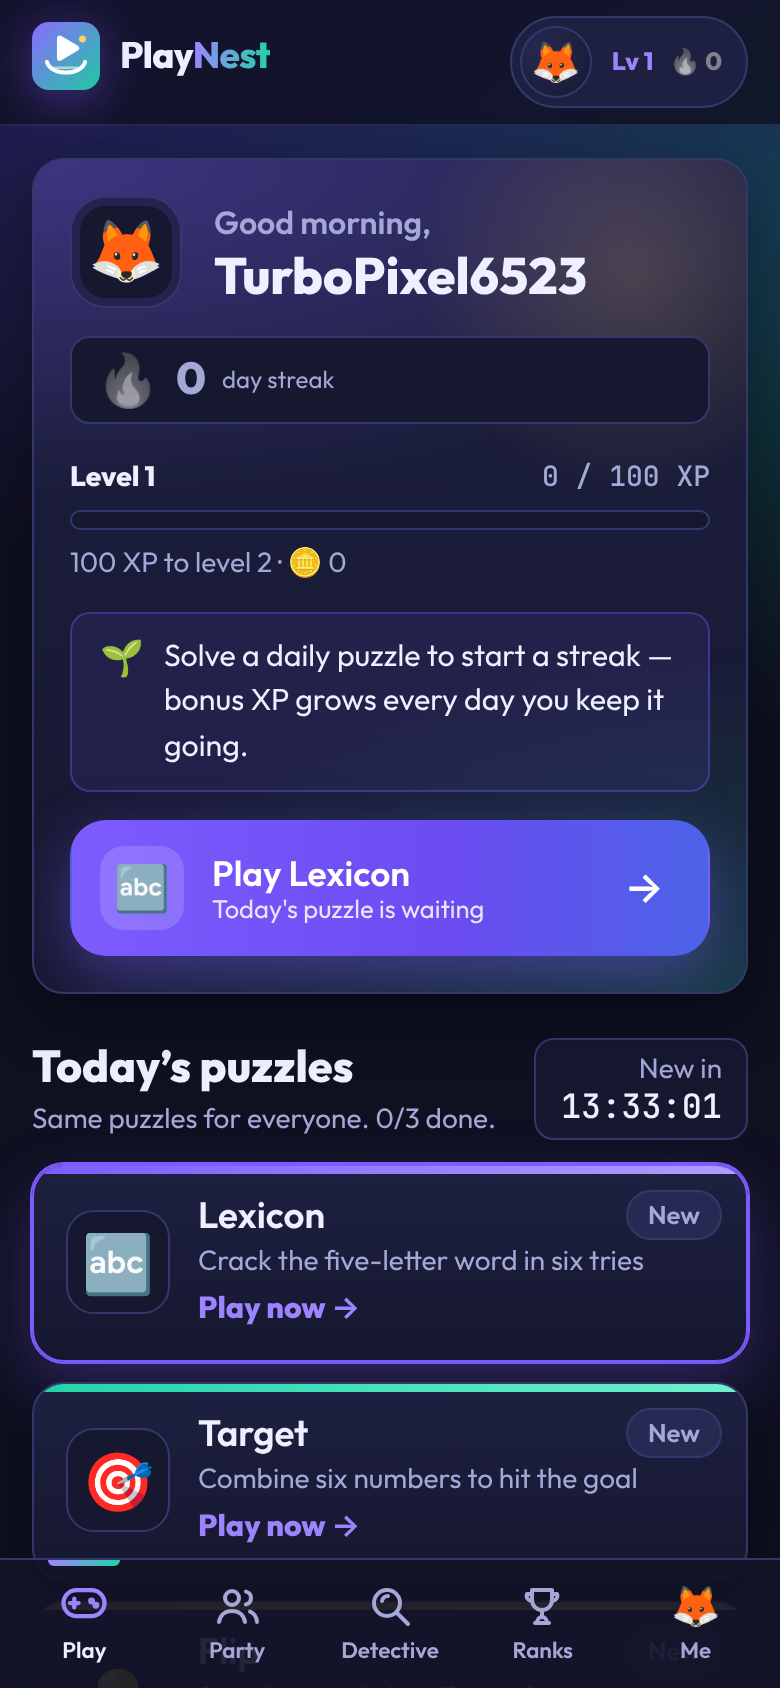
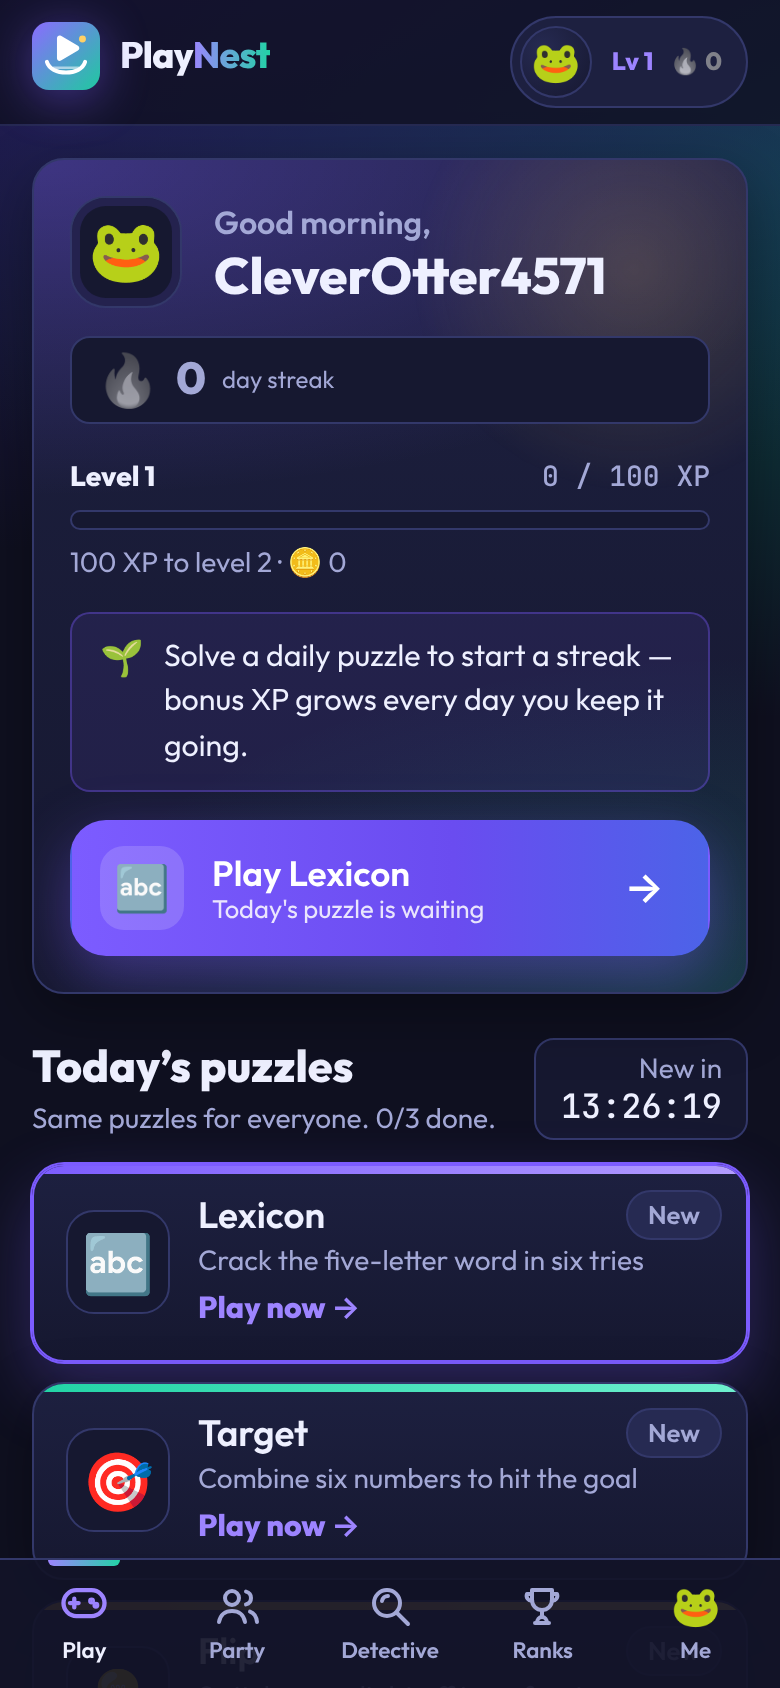
WIP: feature work in progress (daily puzzles, party, detective, core UX)

diff --git a/client/src/components/Toasts.jsx b/client/src/components/Toasts.jsx
@@ -4,25 +4,41 @@ import { IconClose } from './Icons.jsx';
 
 const EXIT_MS = 260;
 const MAX_VISIBLE = 4;
+const MAX_VISIBLE_PHONE = 2; // matches the 760px breakpoint in Layout.css
+const phoneQuery = '(max-width: 760px)';
 const KINDS = new Set(['xp', 'streak', 'level', 'achievement', 'error', 'success', 'info']);
+
+// Oldest first: a burst (XP, streak, achievements) queues behind the cap instead of
+// pushing the first and most important toast (+XP) off screen before it is seen.
+function visible(items, max) {
+  let shown = 0;
+  return items.filter((t) => t.leaving || shown++ < max);
+}
+
+function useIsPhone() {
+  const query = () => (typeof window !== 'undefined' && window.matchMedia ? window.matchMedia(phoneQuery) : null);
+  const [phone, setPhone] = useState(() => !!query()?.matches);
+  useEffect(() => {
+    const mq = query();
+    if (!mq) return undefined;
+    const on = () => setPhone(mq.matches);
+    mq.addEventListener?.('change', on);
+    return () => mq.removeEventListener?.('change', on);
+  }, []);
+  return phone;
+}
 
 /**
  * Animated toast stack rendered from useSession().toasts.
  * Toasts that leave the session list are kept briefly with an exit animation.
  * Top-right on desktop, top-center on mobile (see Layout.css).
  */
-// Oldest first: a burst (XP, streak, achievements) queues behind the cap instead of
-// pushing the first and most important toast (+XP) off screen before it is seen.
-function visible(items) {
-  let shown = 0;
-  return items.filter((t) => t.leaving || shown++ < MAX_VISIBLE);
-}
-
 export default function Toasts() {
   const { toasts = [] } = useSession() || {};
   const [items, setItems] = useState([]); // [{...toast, leaving}]
   const [dismissed, setDismissed] = useState(() => new Set());
   const timers = useRef(new Map());
+  const phone = useIsPhone();
 
   useEffect(() => {
     const live = new Set(toasts.filter((t) => !dismissed.has(t.id)).map((t) => t.id));
@@ -61,7 +77,7 @@ export default function Toasts() {
   return (
     <div className="pn-toasts" role="region" aria-label="Notifications">
       <div aria-live="polite" aria-atomic="false" className="pn-toasts-inner">
-        {visible(items).map((t) => {
+        {visible(items, phone ? MAX_VISIBLE_PHONE : MAX_VISIBLE).map((t) => {
           const kind = KINDS.has(t.kind) ? t.kind : 'info';
           return (
             <div key={t.id} className={`pn-toast pn-toast-${kind}${t.leaving ? ' is-leaving' : ''}`} role="status">

diff --git a/server/src/routes/profile.js b/server/src/routes/profile.js
@@ -46,8 +46,9 @@ leaderboardRouter.get('/', requireAuth, ah(async (req, res) => {
   const date = today();
   let rows;
   if (game === 'xp') {
+    // Every first visit creates a guest; untouched 0-XP accounts would only pad the board.
     ({ rows } = await query(
-      `SELECT id, username, avatar, xp AS score FROM users ORDER BY xp DESC, created_at LIMIT 50`));
+      `SELECT id, username, avatar, xp AS score FROM users WHERE xp > 0 ORDER BY xp DESC, created_at LIMIT 50`));
   } else {
     const from = period === 'today' ? date : period === 'week' ? addDays(date, -6) : '1970-01-01';
     const games = game === 'party' ? ['party_trivia', 'party_reaction'] : [game];
@@ -68,7 +69,7 @@ leaderboardRouter.get('/', requireAuth, ah(async (req, res) => {
     if (game === 'xp') {
       ({ rows: [mine] } = await query(
         `SELECT * FROM (SELECT id, username, avatar, xp AS score,
-           row_number() OVER (ORDER BY xp DESC, created_at)::int AS rank FROM users) r WHERE id=$1`,
+           row_number() OVER (ORDER BY xp DESC, created_at)::int AS rank FROM users WHERE xp > 0) r WHERE id=$1`,
         [req.user.id]));
     } else {
       const from = period === 'today' ? date : period === 'week' ? addDays(date, -6) : '1970-01-01';

diff --git a/client/src/lib/session.jsx b/client/src/lib/session.jsx
@@ -35,14 +35,15 @@ export function SessionProvider({ children }) {
 
   const toast = useCallback((t) => {
     const id = Math.random().toString(36).slice(2);
-    // Layout shows at most 4 at once; toasts queued behind that get extra time so they are seen.
-    const queued = Math.max(0, liveToasts.current - 3);
+    // Layout shows only a few at once (2 on phones); toasts queued behind others get extra
+    // time so each one is on screen for a while before it expires.
+    const queued = Math.min(liveToasts.current, 6);
     liveToasts.current += 1;
     setToasts((ts) => [...ts, { id, ...t }]);
     setTimeout(() => {
       liveToasts.current -= 1;
       setToasts((ts) => ts.filter((x) => x.id !== id));
-    }, (t.duration || 4000) + queued * 1500);
+    }, (t.duration || 4000) + queued * 1200);
   }, []);
 
   const celebrate = useCallback((progress) => {

diff --git a/client/src/components/Layout.css b/client/src/components/Layout.css
@@ -185,6 +185,11 @@
   .pn-toasts { top: calc(64px + env(safe-area-inset-top)); left: 50%; right: auto; transform: translateX(-50%); }
   .pn-toast { animation-name: pn-toast-drop; }
   .pn-toast.is-leaving { animation-name: pn-toast-lift; }
+  /* Compact on phones so a burst doesn't bury the result screen underneath. */
+  .pn-toasts-inner { gap: 6px; }
+  .pn-toast { padding: 8px 8px 8px 12px; gap: 10px; align-items: center; }
+  .pn-toast-icon { font-size: 1.25rem; margin-top: 0; }
+  .pn-toast-body { font-size: 0.8125rem; }
 }
 @keyframes pn-toast-drop { from { opacity: 0; transform: translateY(-24px) scale(0.96); } to { opacity: 1; transform: none; } }
 @keyframes pn-toast-lift { to { opacity: 0; transform: translateY(-24px) scale(0.96); } }

diff --git a/client/src/pages/Leaderboard.jsx b/client/src/pages/Leaderboard.jsx
@@ -149,7 +149,9 @@ export default function Leaderboard() {
             <div className="lb-empty-icon" aria-hidden="true">{meta.icon}</div>
             <h2>No scores yet</h2>
             <p className="muted">
-              Nobody has played {meta.name} {period === 'today' ? 'today' : period === 'week' ? 'this week' : 'yet'}. Claim the top spot!
+              {isXp
+                ? 'Nobody has earned XP yet.'
+                : `Nobody has played ${meta.name} ${period === 'today' ? 'today' : period === 'week' ? 'this week' : 'yet'}.`} Claim the top spot!
             </p>
             <Link to={PLAY_LINK[game]} className="btn">Play {isXp ? 'now' : meta.name}</Link>
           </div>

diff --git a/client/src/pages/Home.jsx b/client/src/pages/Home.jsx
@@ -189,7 +189,7 @@ function MoreGames({ stats }) {
           </form>
           <div className="hm-host" role="group" aria-label="Host a room">
             <Link to="/party?create=trivia" className="btn secondary">🧠 Host Trivia</Link>
-            <Link to="/party?create=reaction" className="btn secondary">⚡ Host Reaction</Link>
+            <Link to="/party?create=reaction" className="btn secondary">🚦 Host Reaction</Link>
           </div>
         </div>
 

diff --git a/client/src/party/common.jsx b/client/src/party/common.jsx
@@ -9,7 +9,7 @@ export const GAME_INFO = {
   },
   reaction: {
     name: 'Reaction Duel',
-    icon: '⚡',
+    icon: '🚦',
     tagline: '5 rounds of nerve. Wait for green, then tap faster than everyone else.',
     rules: ['Tap or press Space on green', 'First tap wins 1000', 'Jump early: −250'],
   },
